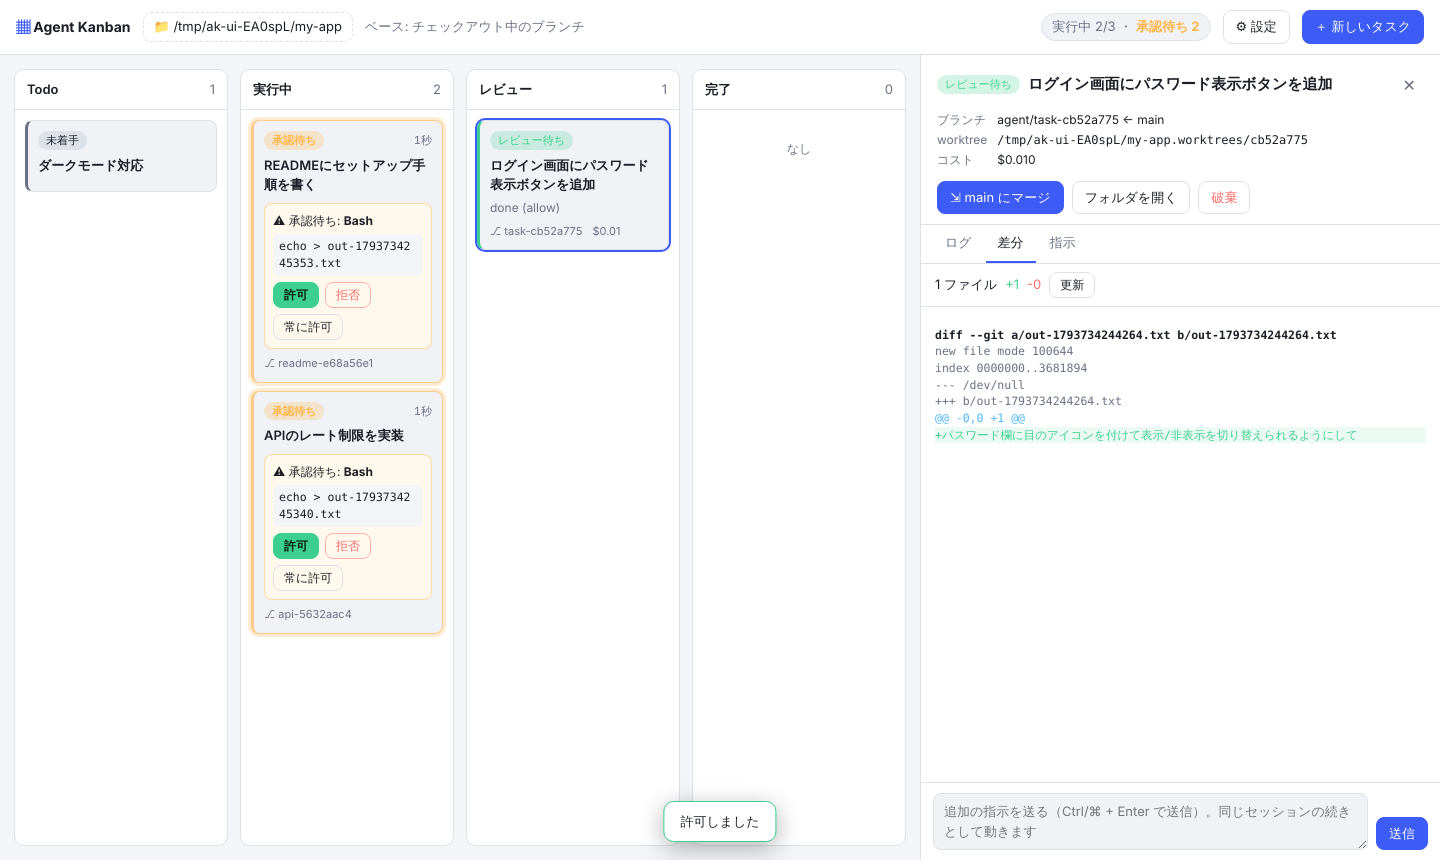
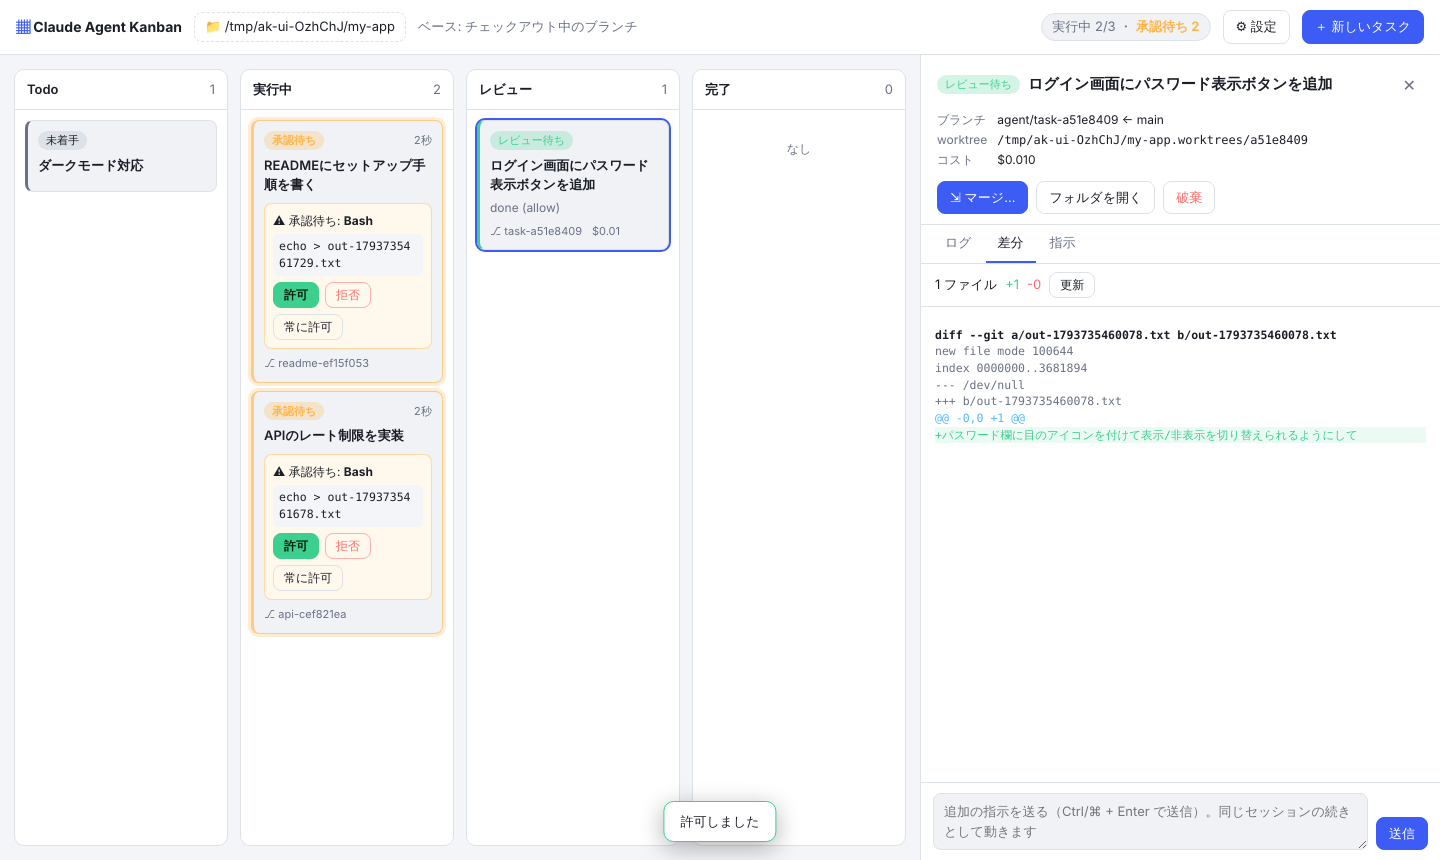
マージ先のブランチを選べるようにし、名前を Claude Agent Kanban に変える
- マージ時にダイアログでマージ先を選ぶ（一覧から選ぶ／新しいブランチを作る）
- マージ先がチェックアウトされていなければ一時 worktree でマージし、手元の作業フォルダは触らない
- 「マージ後もタスクを続ける」で worktree とブランチを残せる（develop → main のように段階的にマージ）
- アプリ名・インストーラー・README を Claude Agent Kanban に変更（データフォルダは従来どおり）
- main への push で package.json の version のリリースを自動作成するようにする
- スクリーンショットを更新

Claude-Session: https://claude.ai/code/session_01LEHjAwv9Yqf8tHhZYVRgtR

diff --git a/renderer/renderer.js b/renderer/renderer.js
@@ -180,14 +180,14 @@ function closeDetail() {
 function renderDetailHead() {
   const c = card(state.selected);
   if (!c) return closeDetail();
-  const sig = JSON.stringify([c.status, c.title, c.error, c.branch, c.worktreePath, c.costUsd, c.permissions, c.alwaysAllow]);
+  const sig = JSON.stringify([c.status, c.title, c.error, c.branch, c.worktreePath, c.costUsd, c.permissions, c.alwaysAllow, c.mergedInto]);
   if (sig === state.headSig) return;
   state.headSig = sig;
   const s = c.status;
   const btns = [
     s === 'todo' && `<button class="btn primary" data-act="start">▶ 開始</button>`,
     (s === 'running' || s === 'queued') && `<button class="btn" data-act="stop">■ 停止</button>`,
-    (s === 'review' || s === 'failed') && c.worktreePath && `<button class="btn primary" data-act="merge">⇲ ${esc(c.baseBranch)} にマージ</button>`,
+    (s === 'review' || s === 'failed') && c.worktreePath && `<button class="btn primary" data-act="merge">⇲ マージ…</button>`,
     c.worktreePath && `<button class="btn ghost" data-act="open">フォルダを開く</button>`,
     `<button class="btn danger" data-act="discard">${s === 'done' ? '削除' : '破棄'}</button>`,
   ].filter(Boolean);
@@ -200,6 +200,7 @@ function renderDetailHead() {
     <dl class="d-meta">
       ${c.branch ? `<dt>ブランチ</dt><dd>${esc(c.branch)} ← ${esc(c.baseBranch)}</dd>` : ''}
       ${c.worktreePath ? `<dt>worktree</dt><dd class="mono">${esc(c.worktreePath)}</dd>` : ''}
+      ${(c.mergedInto || []).length ? `<dt>マージ済み</dt><dd>${c.mergedInto.map(esc).join(', ')}</dd>` : ''}
       ${c.costUsd ? `<dt>コスト</dt><dd>$${c.costUsd.toFixed(3)}</dd>` : ''}
       ${(c.alwaysAllow || []).length ? `<dt>常に許可</dt><dd>${c.alwaysAllow.map(esc).join(', ')}</dd>` : ''}
     </dl>
@@ -226,9 +227,7 @@ $('detailHead').addEventListener('click', async (e) => {
   if (act === 'start') run(() => api.start(c.id));
   if (act === 'stop') run(() => api.stop(c.id));
   if (act === 'open') run(() => api.open(c.id));
-  if (act === 'merge') {
-    if (confirm(`「${c.title}」の変更を ${c.baseBranch} にマージして、worktree を削除しますか？`)) await run(() => api.merge(c.id), 'マージしました');
-  }
+  if (act === 'merge') openMerge(c);
   if (act === 'discard') {
     const msg = c.status === 'done' ? `「${c.title}」をボードから削除しますか？` : `「${c.title}」を破棄しますか？\nworktree とブランチ ${c.branch || ''} も削除され、元に戻せません。`;
     if (confirm(msg)) {
@@ -351,6 +350,55 @@ function newTask() {
       $('nPrompt').addEventListener('keydown', (e) => {
         if (e.key === 'Enter' && (e.metaKey || e.ctrlKey)) submit();
       });
+    },
+  );
+}
+
+// マージ先を選ぶダイアログ
+async function openMerge(c) {
+  const info = (await run(() => api.repoInfo())) || { branches: [], current: '' };
+  const others = info.branches.filter((b) => b !== c.branch);
+  const normal = others.filter((b) => !b.startsWith('agent/'));
+  const agentBranches = others.filter((b) => b.startsWith('agent/'));
+  const def = c.lastMergeTarget && others.includes(c.lastMergeTarget) ? c.lastMergeTarget : c.baseBranch;
+  const opt = (b) => `<option value="${esc(b)}" ${b === def ? 'selected' : ''}>${esc(b)}${b === c.baseBranch ? '（ベース）' : ''}${b === info.current ? '（チェックアウト中）' : ''}</option>`;
+  openModal(
+    `<h2>マージ</h2>
+     <p class="muted">「${esc(c.title)}」のブランチ <code>${esc(c.branch)}</code> を、選んだブランチにマージします（--no-ff）。</p>
+     <label class="field"><span>マージ先のブランチ</span>
+       <select id="mTarget">
+         ${normal.map(opt).join('')}
+         ${agentBranches.length ? `<optgroup label="ほかのタスクのブランチ">${agentBranches.map(opt).join('')}</optgroup>` : ''}
+         <option value="__new__">＋ 新しいブランチを作ってマージ…</option>
+       </select></label>
+     <label class="field hidden" id="mNewWrap"><span>新しいブランチの名前（${esc(c.baseBranch)} から作ります）</span><input id="mNew" placeholder="例: feature/login-improvements" /></label>
+     <label class="check"><input type="checkbox" id="mKeep" /> マージ後もタスクを続ける（worktree とブランチを残す）</label>
+     <p class="muted small" id="mHint"></p>
+     <div class="modal-actions"><button class="btn ghost" id="mCancel">キャンセル</button><button class="btn primary" id="mOk">マージ</button></div>`,
+    () => {
+      const update = () => {
+        const isNew = $('mTarget').value === '__new__';
+        $('mNewWrap').classList.toggle('hidden', !isNew);
+        const t = isNew ? $('mNew').value.trim() || '（新しいブランチ）' : $('mTarget').value;
+        $('mHint').textContent = $('mKeep').checked
+          ? `${t} にマージしたあとも、このタスクはレビュー列に残ります。続けて追加指示を送ったり、別のブランチにマージしたりできます。`
+          : `${t} にマージしたあと、worktree とブランチ ${c.branch} を削除して「完了」にします。`;
+        if (isNew) $('mNew').focus();
+      };
+      $('mTarget').onchange = update;
+      $('mKeep').onchange = update;
+      $('mNew').oninput = update;
+      update();
+      $('mCancel').onclick = closeModal;
+      $('mOk').onclick = async () => {
+        const isNew = $('mTarget').value === '__new__';
+        const target = isNew ? $('mNew').value.trim() : $('mTarget').value;
+        if (!target) return toast('ブランチ名を入力してください');
+        $('mOk').disabled = true;
+        const ok = await run(() => api.merge(c.id, { target, createNew: isNew, keep: $('mKeep').checked }).then(() => true), `${target} にマージしました`);
+        $('mOk').disabled = false;
+        if (ok) closeModal();
+      };
     },
   );
 }

diff --git a/src/agent.js b/src/agent.js
@@ -481,28 +481,77 @@ class AgentManager extends EventEmitter {
     return c.finalDiff || '';
   }
 
-  async merge(id) {
+  /**
+   * 指定したブランチにマージする
+   * @param {string} id
+   * @param {{ target?: string, createNew?: boolean, keep?: boolean }} opts
+   *   target: マージ先（省略時はベースブランチ）
+   *   createNew: target を新しく作る（ベースブランチから分岐）
+   *   keep: マージ後も worktree とブランチを残してタスクを続ける
+   */
+  async merge(id, opts = {}) {
     const c = this.must(id);
     if (!['review', 'failed'].includes(c.status)) throw new Error('レビュー中のタスクだけマージできます');
     if (!c.worktreePath) throw new Error('worktree がありません');
+    if (this.merging?.has(id)) throw new Error('マージ中です');
     const top = c.repoPath;
-    await git.commitAll(c.worktreePath, `agent: ${c.title}`);
-    const cur = await git.currentBranch(top);
-    if (cur !== c.baseBranch) {
-      throw new Error(`メインのリポジトリが ${c.baseBranch} ではなく ${cur} になっています。${c.baseBranch} に切り替えてからマージしてください。`);
+    const target = String(opts.target || c.baseBranch || '').trim();
+    if (!target) throw new Error('マージ先のブランチを指定してください');
+    if (target === c.branch) throw new Error('タスク自身のブランチにはマージできません');
+
+    this.merging = this.merging || new Set();
+    this.merging.add(id);
+    try {
+      await git.commitAll(c.worktreePath, `agent: ${c.title}`);
+      if (opts.createNew) {
+        await git.checkBranchName(top, target);
+        if (await git.branchExists(top, target)) throw new Error(`ブランチ ${target} はもうあります。一覧から選んでください`);
+        await git.createBranch(top, target, c.baseBranch);
+        this.log(c, 'system', `ブランチ ${target} を ${c.baseBranch} から作成しました`);
+      } else if (!(await git.branchExists(top, target))) {
+        throw new Error(`ブランチ ${target} が見つかりません`);
+      }
+
+      const finalDiff = await git.diff(c.worktreePath, c.baseCommit);
+      const ahead = await git.countCommits(top, `${target}..${c.branch}`);
+      if (ahead > 0) {
+        // target をチェックアウトしている場所でマージする。どこにもなければ一時的な worktree を使い、
+        // 自分の作業中のフォルダには触らない
+        let dir = await git.worktreeForBranch(top, target);
+        let temp = null;
+        if (dir) {
+          if (await git.isDirty(dir)) throw new Error(`${target} をチェックアウトしている ${dir} に未コミットの変更があります。コミットするか退避してからマージしてください。`);
+        } else {
+          temp = path.join(path.dirname(c.worktreePath), `_merge-${c.id}-${Date.now()}`);
+          await git.addWorktreeForBranch(top, temp, target);
+          dir = temp;
+        }
+        try {
+          await git.merge(dir, c.branch, `Merge agent task: ${c.title}`, target);
+        } finally {
+          if (temp) await git.removeWorktree(top, temp);
+        }
+        this.log(c, 'system', `${target} にマージしました`);
+      } else {
+        this.log(c, 'system', `${target} にはもう取り込まれているので、マージする変更はありませんでした`);
+      }
+      c.mergedInto = [...new Set([...(c.mergedInto || []), target])];
+      c.lastMergeTarget = target;
+
+      if (opts.keep) {
+        this.changed(c);
+        return;
+      }
+      await git.removeWorktree(top, c.worktreePath);
+      await git.deleteBranch(top, c.branch);
+      c.finalDiff = truncate(finalDiff, 300000);
+      c.worktreePath = null;
+      c.status = 'done';
+      c.mergedAt = Date.now();
+      this.changed(c);
+    } finally {
+      this.merging.delete(id);
     }
-    if (await git.isDirty(top)) throw new Error('メインのリポジトリに未コミットの変更があります。コミットするか退避してからマージしてください。');
-    const finalDiff = await git.diff(c.worktreePath, c.baseCommit);
-    const ahead = await git.countCommits(top, `${c.baseBranch}..${c.branch}`);
-    if (ahead > 0) await git.merge(top, c.branch, `Merge agent task: ${c.title}`);
-    this.log(c, 'system', ahead > 0 ? `${c.baseBranch} にマージしました` : 'マージする変更はありませんでした');
-    await git.removeWorktree(top, c.worktreePath);
-    await git.deleteBranch(top, c.branch);
-    c.finalDiff = truncate(finalDiff, 300000);
-    c.worktreePath = null;
-    c.status = 'done';
-    c.mergedAt = Date.now();
-    this.changed(c);
   }
 
   async discard(id) {

diff --git a/src/git.js b/src/git.js
@@ -50,7 +50,7 @@ async function identityArgs(cwd) {
   } catch {
     /* 未設定 */
   }
-  return ['-c', 'user.name=Agent Kanban', '-c', 'user.email=agent-kanban@localhost'];
+  return ['-c', 'user.name=Claude Agent Kanban', '-c', 'user.email=agent-kanban@localhost'];
 }
 
 async function addWorktree(repo, wtPath, branch, baseCommit) {
@@ -90,13 +90,50 @@ async function countCommits(repo, range) {
   return parseInt((await git(repo, ['rev-list', '--count', range])).trim(), 10) || 0;
 }
 
-async function merge(repo, branch, message) {
+// cwd でチェックアウトしているブランチに branch をマージする
+async function merge(cwd, branch, message, target) {
   try {
-    await git(repo, [...(await identityArgs(repo)), 'merge', '--no-ff', '-m', message, branch]);
+    await git(cwd, [...(await identityArgs(cwd)), 'merge', '--no-ff', '-m', message, branch]);
   } catch (err) {
-    await git(repo, ['merge', '--abort']).catch(() => {});
-    throw new Error(`マージでコンフリクトが起きたため中止しました。追加指示で ${branch} を最新のベースに合わせるよう頼むか、手動でマージしてください。\n${err.message}`);
+    await git(cwd, ['merge', '--abort']).catch(() => {});
+    throw new Error(`${target || 'マージ先'} へのマージでコンフリクトが起きたため中止しました。追加指示で「${target || 'マージ先'} を取り込んでコンフリクトを解消して」と頼むか、手動でマージしてください。\n${err.message}`);
   }
+}
+
+async function branchExists(repo, name) {
+  try {
+    await git(repo, ['rev-parse', '--verify', '--quiet', `refs/heads/${name}`]);
+    return true;
+  } catch {
+    return false;
+  }
+}
+
+async function checkBranchName(repo, name) {
+  try {
+    await git(repo, ['check-ref-format', '--branch', name]);
+  } catch {
+    throw new Error(`「${name}」はブランチ名に使えません`);
+  }
+}
+
+async function createBranch(repo, name, startPoint) {
+  await git(repo, ['branch', name, startPoint]);
+}
+
+// branch をチェックアウトしている worktree のパス（なければ null）
+async function worktreeForBranch(repo, branch) {
+  const out = await git(repo, ['worktree', 'list', '--porcelain']);
+  let current = null;
+  for (const line of out.split('\n')) {
+    if (line.startsWith('worktree ')) current = line.slice('worktree '.length);
+    else if (line === `branch refs/heads/${branch}`) return current;
+  }
+  return null;
+}
+
+async function addWorktreeForBranch(repo, wtPath, branch) {
+  await git(repo, ['worktree', 'add', wtPath, branch]);
 }
 
 // ベースコミットからの差分（コミット済み＋未コミット＋未追跡ファイル）
@@ -125,5 +162,10 @@ module.exports = {
   commitAll,
   countCommits,
   merge,
+  branchExists,
+  checkBranchName,
+  createBranch,
+  worktreeForBranch,
+  addWorktreeForBranch,
   diff,
 };

diff --git a/test/agent.test.js b/test/agent.test.js
@@ -135,3 +135,37 @@ test('claude が見つからないとエラー列に入る', async () => {
   await waitFor(() => c.status === 'failed');
   assert.match(c.error, /見つかりません/);
 });
+
+test('指定したブランチへマージ（チェックアウトしていないブランチ・続ける・新しいブランチ）', async () => {
+  const { repo, store, agents, g } = setup();
+  store.settings.permissionMode = 'bypassPermissions'; // 承認なし（MCP なし）で走らせる
+  g('branch', 'develop');
+  const c = agents.createCard({ title: 'feature', prompt: 'develop向け' });
+  agents.start(c.id);
+  await waitFor(() => c.status === 'review');
+
+  // develop はどこにもチェックアウトしていない → 一時 worktree でマージ。main と作業フォルダは変わらない
+  const mainBefore = g('rev-parse', 'main').toString().trim();
+  await agents.merge(c.id, { target: 'develop', keep: true });
+  assert.strictEqual(c.status, 'review', 'keep なのでレビューに残る');
+  assert.ok(fs.existsSync(c.worktreePath));
+  assert.strictEqual(g('rev-parse', 'main').toString().trim(), mainBefore);
+  assert.match(g('log', '--oneline', 'develop').toString(), /Merge agent task: feature/);
+  assert.ok(!g('worktree', 'list').toString().includes('_merge-'), '一時 worktree は消える');
+  assert.deepStrictEqual(c.mergedInto, ['develop']);
+
+  // 存在しないブランチはエラー
+  await assert.rejects(agents.merge(c.id, { target: 'nope' }), /見つかりません/);
+
+  // チェックアウト中のブランチ（main）に未コミットの変更があるとエラー
+  fs.writeFileSync(path.join(repo, 'README.md'), 'dirty\n');
+  await assert.rejects(agents.merge(c.id, { target: 'main' }), /未コミット/);
+  g('checkout', '--', 'README.md');
+
+  // 新しいブランチを作ってマージ → 完了
+  await agents.merge(c.id, { target: 'release/1.0', createNew: true });
+  assert.strictEqual(c.status, 'done');
+  assert.match(g('log', '--oneline', 'release/1.0').toString(), /Merge agent task: feature/);
+  assert.strictEqual(g('rev-parse', 'main').toString().trim(), mainBefore, 'main は触らない');
+  assert.deepStrictEqual(c.mergedInto, ['develop', 'release/1.0']);
+});

diff --git a/src/permission-mcp.js b/src/permission-mcp.js
@@ -10,7 +10,7 @@ const CARD = process.env.KANBAN_CARD || '';
 
 const TOOL = {
   name: 'approve',
-  description: 'Ask the human operator on the Agent Kanban board to approve or deny a tool call.',
+  description: 'Ask the human operator on the Claude Agent Kanban board to approve or deny a tool call.',
   inputSchema: {
     type: 'object',
     properties: {
@@ -84,7 +84,7 @@ async function handle(msg) {
     try {
       decision = await ask((params && params.arguments) || {});
     } catch (err) {
-      decision = { behavior: 'deny', message: `Agent Kanban に接続できなかったため拒否しました: ${err.message}` };
+      decision = { behavior: 'deny', message: `Claude Agent Kanban に接続できなかったため拒否しました: ${err.message}` };
     }
     return send({ jsonrpc: '2.0', id, result: { content: [{ type: 'text', text: JSON.stringify(decision) }] } });
   }

diff --git a/main.js b/main.js
@@ -22,7 +22,7 @@ function createWindow() {
     height: 900,
     minWidth: 960,
     minHeight: 600,
-    title: 'Agent Kanban',
+    title: 'Claude Agent Kanban',
     backgroundColor: '#0f1115',
     webPreferences: {
       preload: path.join(__dirname, 'preload.js'),
@@ -136,7 +136,7 @@ app.whenReady().then(async () => {
   handle('card:send', ({ id, message }) => agents.send(id, message));
   handle('card:logs', (id) => agents.logs(id));
   handle('card:diff', (id) => agents.diff(id));
-  handle('card:merge', (id) => agents.merge(id));
+  handle('card:merge', ({ id, target, createNew, keep }) => agents.merge(id, { target, createNew, keep }));
   handle('card:discard', (id) => agents.discard(id));
   handle('card:permission', ({ id, reqId, decision, message }) => agents.answerPermission(id, reqId, decision, message));
   handle('card:open', async (id) => {

diff --git a/renderer/index.html b/renderer/index.html
@@ -3,12 +3,12 @@
   <head>
     <meta charset="utf-8" />
     <meta http-equiv="Content-Security-Policy" content="default-src 'self'; style-src 'self' 'unsafe-inline'; script-src 'self'; img-src 'self' data:" />
-    <title>Agent Kanban</title>
+    <title>Claude Agent Kanban</title>
     <link rel="stylesheet" href="styles.css" />
   </head>
   <body>
     <header class="topbar">
-      <div class="brand"><span class="logo">▦</span> Agent Kanban</div>
+      <div class="brand"><span class="logo">▦</span> Claude Agent Kanban</div>
       <button id="repoBtn" class="repo" title="リポジトリを選ぶ"></button>
       <span id="baseInfo" class="muted"></span>
       <div class="spacer"></div>

diff --git a/renderer/styles.css b/renderer/styles.css
@@ -208,3 +208,5 @@ input:focus, textarea:focus, select:focus { outline: 2px solid var(--accent); ou
 .toast.ok { border-color: var(--ok); }
 
 .env-banner { padding: 8px 16px; background: color-mix(in srgb, var(--warn) 15%, var(--panel)); border-bottom: 1px solid color-mix(in srgb, var(--warn) 50%, transparent); color: var(--text); font-size: 12.5px; display: flex; flex-direction: column; gap: 2px; }
+.small { font-size: 12px; }
+.modal-box code { font-family: var(--mono); font-size: 12px; background: var(--panel-2); padding: 1px 5px; border-radius: 4px; }

diff --git a/preload.js b/preload.js
@@ -20,7 +20,7 @@ contextBridge.exposeInMainWorld('api', {
   send: (id, message) => call('card:send', { id, message }),
   logs: (id) => call('card:logs', id),
   diff: (id) => call('card:diff', id),
-  merge: (id) => call('card:merge', id),
+  merge: (id, opts) => call('card:merge', { id, ...(opts || {}) }),
   discard: (id) => call('card:discard', id),
   answerPermission: (id, reqId, decision, message) => call('card:permission', { id, reqId, decision, message }),
   open: (id) => call('card:open', id),
